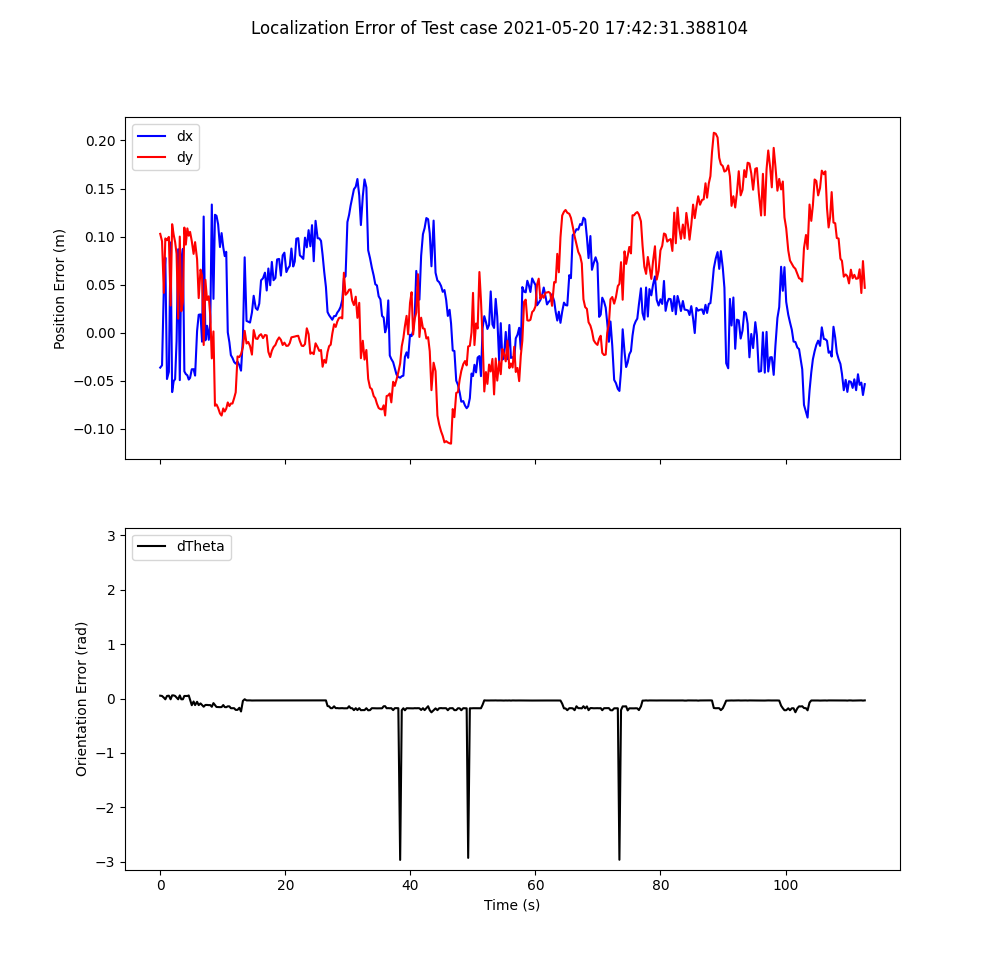
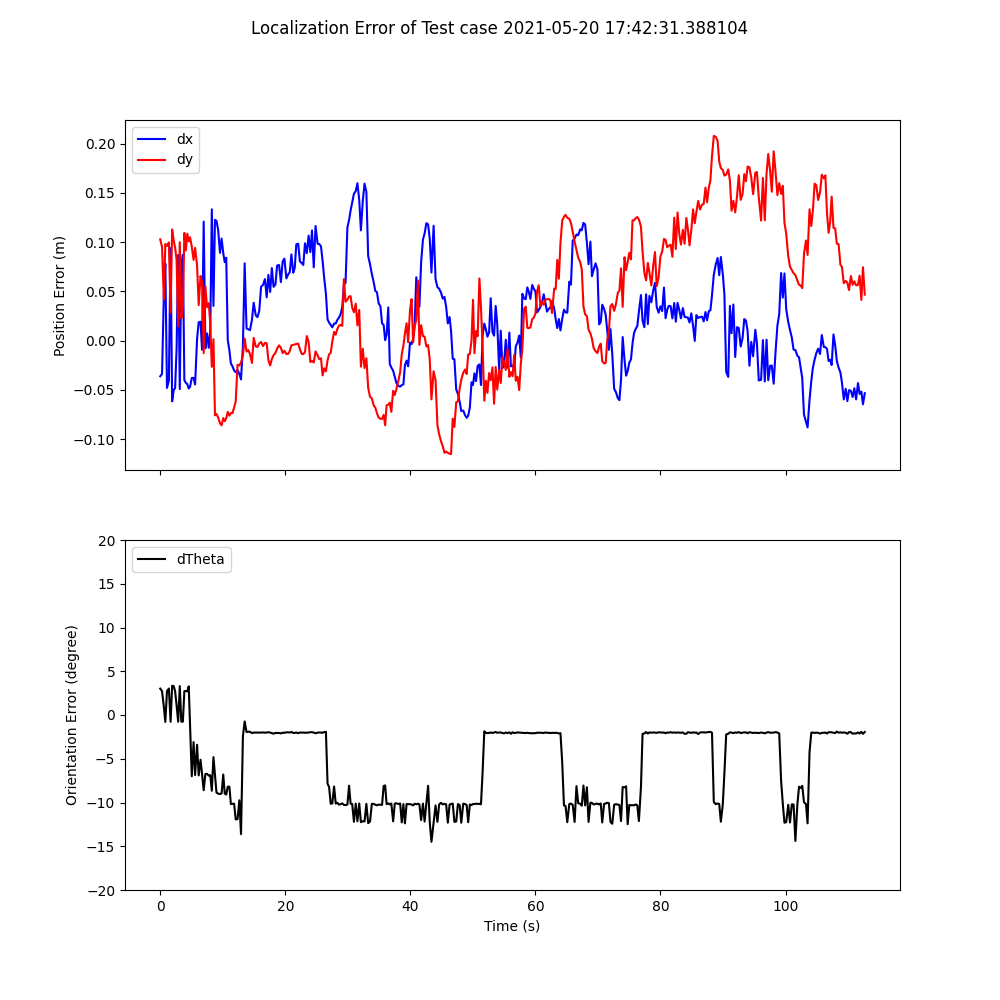
change radian to degree in orientation error

diff --git a/src/read_error.py b/src/read_error.py
@@ -81,23 +81,29 @@ if len(paths) > 0:
         T.append((datetime.fromtimestamp(t) - start_time).total_seconds())
         X.append(x)
         Y.append(y)
-        z = np.fmod(z, np.pi * 2)
-        Z.append(z if z < np.pi else np.pi - z)
+        z = np.fmod(np.rad2deg(z), 360)
+        Z.append(z if z < 180 else z - 360)
 
-    fig1, axs = plt.subplots(2, 1, sharex=True, figsize=(10, 20))
+    fig1, axs = plt.subplots(2, 1, sharex=True, figsize=(10, 10))
     fig1.suptitle(f'Localization Error of Test case {log_time}')
     axs[0].plot(T, X, c='b', label='dx')
     axs[0].plot(T, Y, c='r', label='dy')
-    axs[1].plot(T, Z, c='k', label='dTheta', yunits=radians)
+    axs[1].plot(T, Z, c='k', label='dTheta')
 
-    axs[1].set_ylim(- np.pi, np.pi)
+    axs[1].set_ylim(-20, 20)
 
     axs[0].set_ylabel('Position Error (m)')
-    axs[1].set_ylabel('Orientation Error (rad)')
+    axs[1].set_ylabel('Orientation Error (degree)')
     axs[1].set_xlabel('Time (s)')
 
     axs[0].legend(loc='upper left')
     axs[1].legend(loc='upper left')
     
     fig1.savefig(dir_path + f'/../images/error_{timestamp}.png')
+
+    # fig, axt = plt.subplots()
+    # axt.scatter(X, Y, s=1)
+    # axt.set_xlim(-0.20, 0.20)
+    # axt.set_ylim(-0.20, 0.20)
+    
     plt.show()
